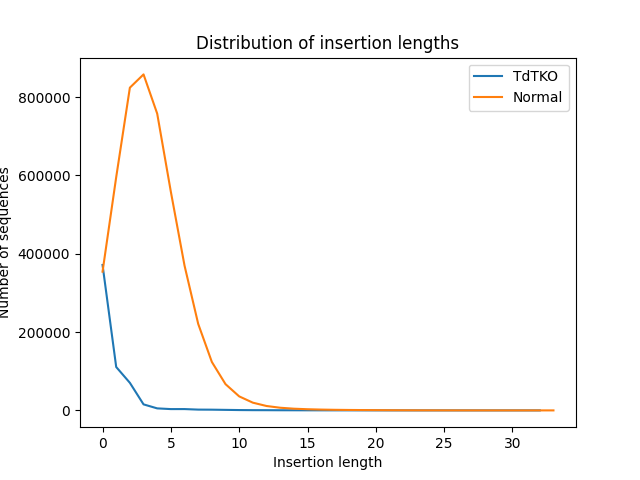
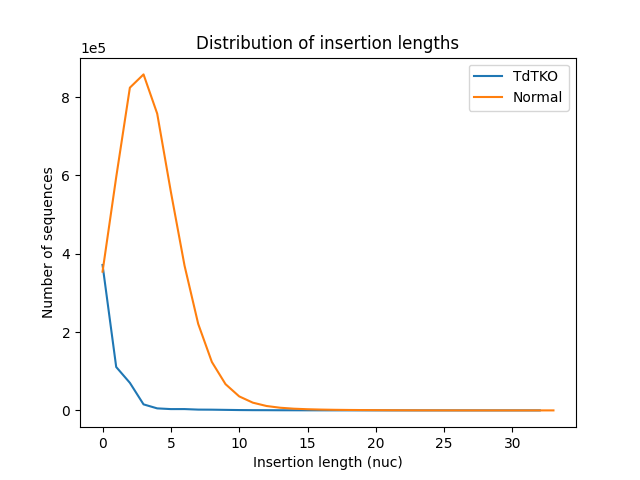
Altered the Insertion and Junction length plots

diff --git a/code/filter_data.py b/code/filter_data.py
@@ -17,8 +17,8 @@ def filter_tcrb_data(rtcr_ref: dict, tcrb_data_filenames, threshold, max_sequenc
     """
     outlines = [
         "Column1\tmouse\tNumber.of.reads\tV.length.used\tD.used\tD.length.used\tJ.length.used\tV.length.deleted\t"
-        "J.length.deleted\tinsertion.length\t""V.gene\tJ.gene\tV.gene.end.position\tJ.gene.start.position\tMin.Phred\t"
-        "Junction.nucleotide.sequence\tphenotype\tstrain\n"]
+        "J.length.deleted\tinsertion.length\tV.J.distance\tV.gene\tJ.gene\tV.gene.end.position\t"
+        "J.gene.start.position\tMin.Phred\tJunction.nucleotide.sequence\tphenotype\tstrain\n"]
     column = 0
     for file in tcrb_data_filenames:
         with open(file, 'r') as csvfile:
@@ -35,10 +35,11 @@ def filter_tcrb_data(rtcr_ref: dict, tcrb_data_filenames, threshold, max_sequenc
                         row[header.index('J.gene.start.position')], row[header.index('Minimum.Phred')], \
                         row[header.index('phenotype')]
                     mouse_id = row[header.index('mouse')]
-
+                    v_j_distance = str(int(line[2]) + int(line[6]))
                     out_line = [str(column), mouse_id, reads]
                     out_line.extend(line)
-                    out_line.extend([v_gene, j_gene, v_end, j_start, phred, cdr3nt_seq, phenotype, strain])
+                    out_line.extend([v_j_distance, v_gene, j_gene, v_end, j_start, phred,
+                                     cdr3nt_seq, phenotype, strain])
                     out_line = "\t".join(e for e in out_line) + "\n"
                     outlines.append(out_line)
     with open(out_filename, 'w') as outfile:
@@ -50,21 +51,21 @@ if __name__ == '__main__':
     files = [
         # "C:\\Users\\gabev\\PycharmProjects\\MRP_TdTKO_mice\\data_files\\tdt.csv"
 
-        "C:\\Users\\gabev\\PycharmProjects\\MRP_TdTKO_mice\\data_files\\TdTKo\\GSM6893351_Mandl-01-122016.tsv",
-        "C:\\Users\\gabev\\PycharmProjects\\MRP_TdTKO_mice\\data_files\\TdTKo\\GSM6893356_Mandl-20-042016.tsv",
-        "C:\\Users\\gabev\\PycharmProjects\\MRP_TdTKO_mice\\data_files\\TdTKo\\GSM6893359_Mandl-25-112016.tsv",
-        "C:\\Users\\gabev\\PycharmProjects\\MRP_TdTKO_mice\\data_files\\TdTKo\\GSM6893360_Mandl-4-052016.tsv",
-        "C:\\Users\\gabev\\PycharmProjects\\MRP_TdTKO_mice\\data_files\\TdTKo\\GSM6893362_Mandl-AF-human-07082016.tsv"
+        # "C:\\Users\\gabev\\PycharmProjects\\MRP_TdTKO_mice\\data_files\\TdTKo\\GSM6893351_Mandl-01-122016.tsv",
+        # "C:\\Users\\gabev\\PycharmProjects\\MRP_TdTKO_mice\\data_files\\TdTKo\\GSM6893356_Mandl-20-042016.tsv",
+        # "C:\\Users\\gabev\\PycharmProjects\\MRP_TdTKO_mice\\data_files\\TdTKo\\GSM6893359_Mandl-25-112016.tsv",
+        # "C:\\Users\\gabev\\PycharmProjects\\MRP_TdTKO_mice\\data_files\\TdTKo\\GSM6893360_Mandl-4-052016.tsv",
+        # "C:\\Users\\gabev\\PycharmProjects\\MRP_TdTKO_mice\\data_files\\TdTKo\\GSM6893362_Mandl-AF-human-07082016.tsv"
 
-        # "C:\\Users\\gabev\\PycharmProjects\\MRP_TdTKO_mice\\data_files\\B6\\GSM6893369_RP-Mandl-28-M65&M66.tsv",
-        # "C:\\Users\\gabev\\PycharmProjects\\MRP_TdTKO_mice\\data_files\\B6\\GSM6893370_RP-Mandl-30-M67&M68.tsv",
-        # "C:\\Users\\gabev\\PycharmProjects\\MRP_TdTKO_mice\\data_files\\B6\\GSM6893365_RP-Mandl-05-M69&M70.tsv",
-        # "C:\\Users\\gabev\\PycharmProjects\\MRP_TdTKO_mice\\data_files\\B6\\GSM6893366_RP-Mandl-06-M71&M72.tsv",
-        # "C:\\Users\\gabev\\PycharmProjects\\MRP_TdTKO_mice\\data_files\\B6\\GSM6893367_RP-Mandl-07-M73&M74.tsv"
+        "C:\\Users\\gabev\\PycharmProjects\\MRP_TdTKO_mice\\data_files\\B6\\GSM6893369_RP-Mandl-28-M65&M66.tsv",
+        "C:\\Users\\gabev\\PycharmProjects\\MRP_TdTKO_mice\\data_files\\B6\\GSM6893370_RP-Mandl-30-M67&M68.tsv",
+        "C:\\Users\\gabev\\PycharmProjects\\MRP_TdTKO_mice\\data_files\\B6\\GSM6893365_RP-Mandl-05-M69&M70.tsv",
+        "C:\\Users\\gabev\\PycharmProjects\\MRP_TdTKO_mice\\data_files\\B6\\GSM6893366_RP-Mandl-06-M71&M72.tsv",
+        "C:\\Users\\gabev\\PycharmProjects\\MRP_TdTKO_mice\\data_files\\B6\\GSM6893367_RP-Mandl-07-M73&M74.tsv"
     ]
     refs = read_rtcr_refs()
-    # new_filename = f'..\\data_files\\B6\\filtered_data\\filtered_data_Normal.tsv'
-    new_filename = f'..\\data_files\\TdTKo\\filtered_data\\filtered_data_TdTKO.tsv'
+    new_filename = f'..\\data_files\\B6\\filtered_data\\filtered_data_Normal.tsv'
+    # new_filename = f'..\\data_files\\TdTKo\\filtered_data\\filtered_data_TdTKO.tsv'
     b6 = 'C57BL/6Â '
     tdt = 'TdT-/-'
-    filter_tcrb_data(refs, files, 1, 64, tdt, '\t', new_filename)
+    filter_tcrb_data(refs, files, 1, 64, b6, '\t', new_filename)

diff --git a/code/code_main.py b/code/code_main.py
@@ -271,41 +271,43 @@ def get_insertion_counts(fn, counts: dict, delim: str):
 
 
 if __name__ == "__main__":
-    sequence_lengths = []
-    read_counts = []
-
     x_points = []
     y_points = []
     labels = []
+    averages = []
     file_list = [
         "C:\\Users\\gabev\\PycharmProjects\\MRP_TdTKO_mice\\data_files\\TdTKo\\filtered_data\\filtered_data_TdTKO.tsv",
         "C:\\Users\\gabev\\PycharmProjects\\MRP_TdTKO_mice\\data_files\\B6\\filtered_data\\filtered_data_Normal.tsv"
     ]
 
-    # for filename in file_list:
-    #     sequence_counts = {}
-    #     sequence_lengths, read_counts, sequence_counts = get_junction_length(filename, sequence_lengths, read_counts,
-    #                                                                          sequence_counts, delim='\t')
-    #     labels.append(filename.split('_')[-1].rstrip('.tsv'))
-    #     x = sorted(sequence_counts.keys())
-    #     x_points.append(x)
-    #     y_points.append([sequence_counts[point] for point in x])
-
     for filename in file_list:
-        insertion_counts = {}
-        insertion_counts = get_insertion_counts(filename, insertion_counts, '\t')
+        sequence_counts = {}
+        sequence_lengths = []
+        read_counts = []
+        sequence_lengths, read_counts, sequence_counts = get_junction_length(filename, sequence_lengths, read_counts,
+                                                                             sequence_counts, delim='\t')
         labels.append(filename.split('_')[-1].rstrip('.tsv'))
-        x = sorted(insertion_counts.keys())
+        x = sorted(sequence_counts.keys())
         x_points.append(x)
-        y_points.append([insertion_counts[point] for point in x])
+        y = [sequence_counts[point] for point in x]
+        y = [point * 100 / sum(y) for point in y]
+        y_points.append(y)
+        average = sum(sequence_lengths) / len(sequence_lengths)
+        averages.append(average)
+        print(f'The average is: {average}')
+
+    # for filename in file_list:
+    #     insertion_counts = {}
+    #     insertion_counts = get_insertion_counts(filename, insertion_counts, '\t')
+    #     labels.append(filename.split('_')[-1].rstrip('.tsv'))
+    #     x = sorted(insertion_counts.keys())
+    #     x_points.append(x)
+    #     y_points.append([insertion_counts[point] for point in x])
 
     from plots import plot_sequence_length_read_count, plot_dist_junction_sequence_length, plot_dist_insertion_length
     # plot_sequence_length_read_count(sequence_lengths, read_counts, label='Normal')
-    # plot_dist_junction_sequence_length(x_points, y_points, labels)
-    plot_dist_insertion_length(x_points, y_points, labels)
-
-    # average = sum(sequence_lengths) / len(sequence_lengths)
-    # print(f'The average is: {average}')
+    plot_dist_junction_sequence_length(x_points, y_points, labels, averages)
+    # plot_dist_insertion_length(x_points, y_points, labels)
 
     # threshold_list = [0, 5, 10, 15, 20, 25, 50]
     # refs = read_rtcr_refs()

diff --git a/code/plots.py b/code/plots.py
@@ -59,21 +59,22 @@ def plot_sequence_length_read_count(x_points, y_points, label):
 
     plt.scatter(x_points, y_points, label=label, s=3)
     plt.title('Read count per Junction sequence length')
-    plt.xlabel('Junction sequence length')
+    plt.xlabel('Junction sequence length (nuc)')
     plt.ylabel('Read count')
     plt.legend()
     plt.savefig(f'C:\\Users\\gabev\\PycharmProjects\\MRP_TdTKO_mice\\img\\Read_count_per_sequence_length_{label}.png')
     plt.close()
 
 
-def plot_dist_junction_sequence_length(x_points_lists, y_points_lists, labels):
+def plot_dist_junction_sequence_length(x_points_lists, y_points_lists, labels, averages):
     plt.figure()
     for e in range(len(x_points_lists)):
-        x_points, y_points, label = x_points_lists[e], y_points_lists[e], labels[e]
+        x_points, y_points, label, avg = x_points_lists[e], y_points_lists[e], labels[e], averages[e]
         plt.plot(x_points, y_points, label=label)
+        plt.axvline(avg, color='black', linestyle='dashed')
     plt.title('Distribution of junction sequence lengths')
-    plt.xlabel('Junction sequence length')
-    plt.ylabel('Number of sequences')
+    plt.xlabel('Junction sequence length (nuc)')
+    plt.ylabel('Fraction of sequences (%)')
     plt.legend()
     plt.savefig(
         f'C:\\Users\\gabev\\PycharmProjects\\MRP_TdTKO_mice\\img\\Junction_length_distribution_{"-".join(labels)}')
@@ -86,7 +87,8 @@ def plot_dist_insertion_length(x_points_lists, y_points_lists, labels):
         x_points, y_points, label = x_points_lists[e], y_points_lists[e], labels[e]
         plt.plot(x_points, y_points, label=label)
     plt.title('Distribution of insertion lengths')
-    plt.xlabel('Insertion length')
+    plt.ticklabel_format(style='sci', axis='y', scilimits=(0, 0))
+    plt.xlabel('Insertion length (nuc)')
     plt.ylabel('Number of sequences')
     plt.legend()
     plt.savefig(
